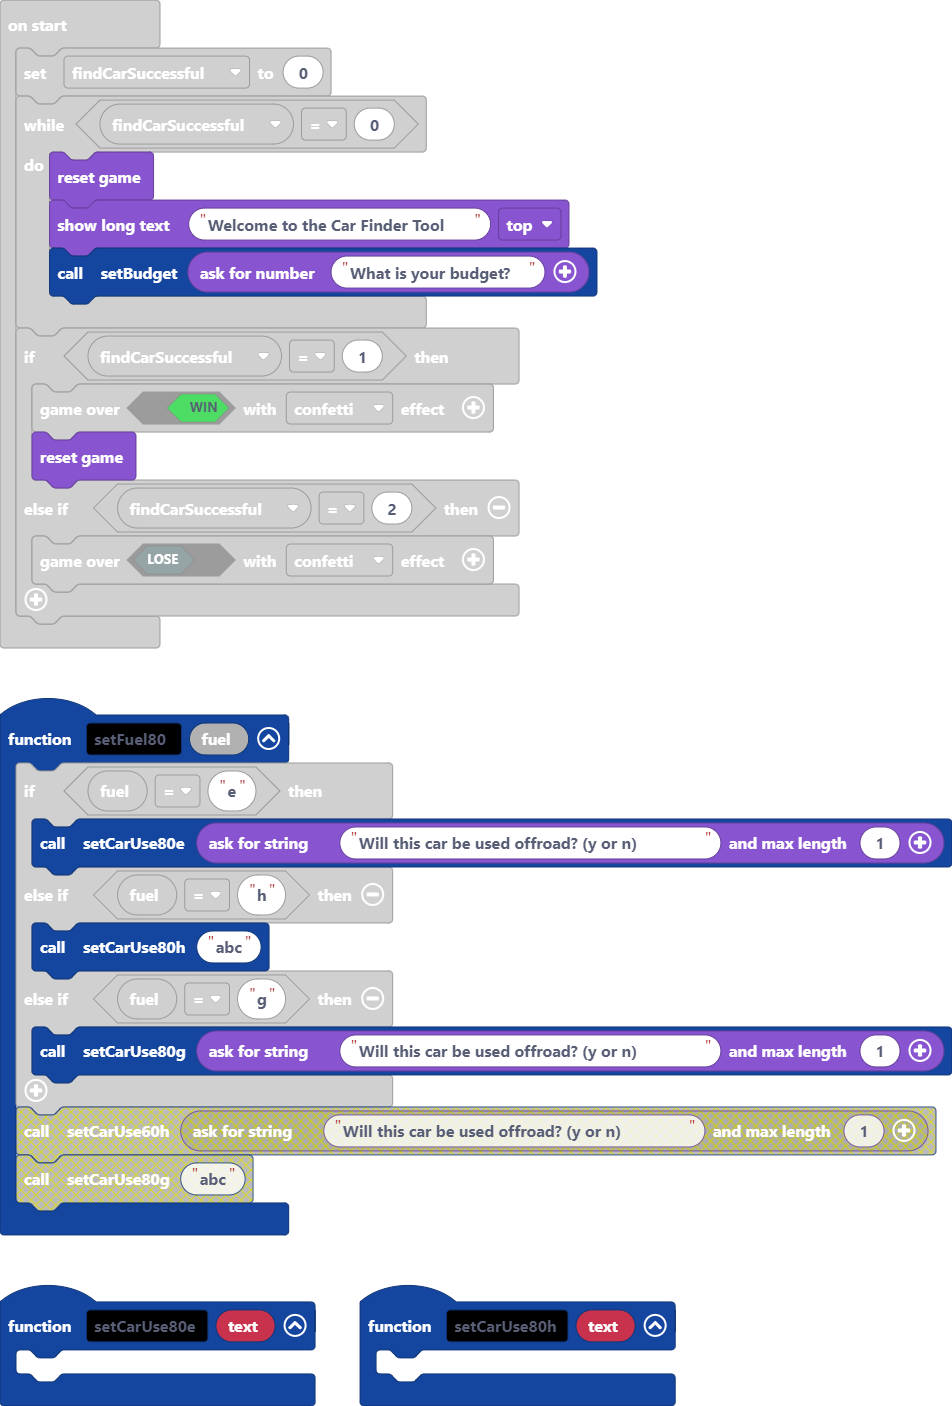
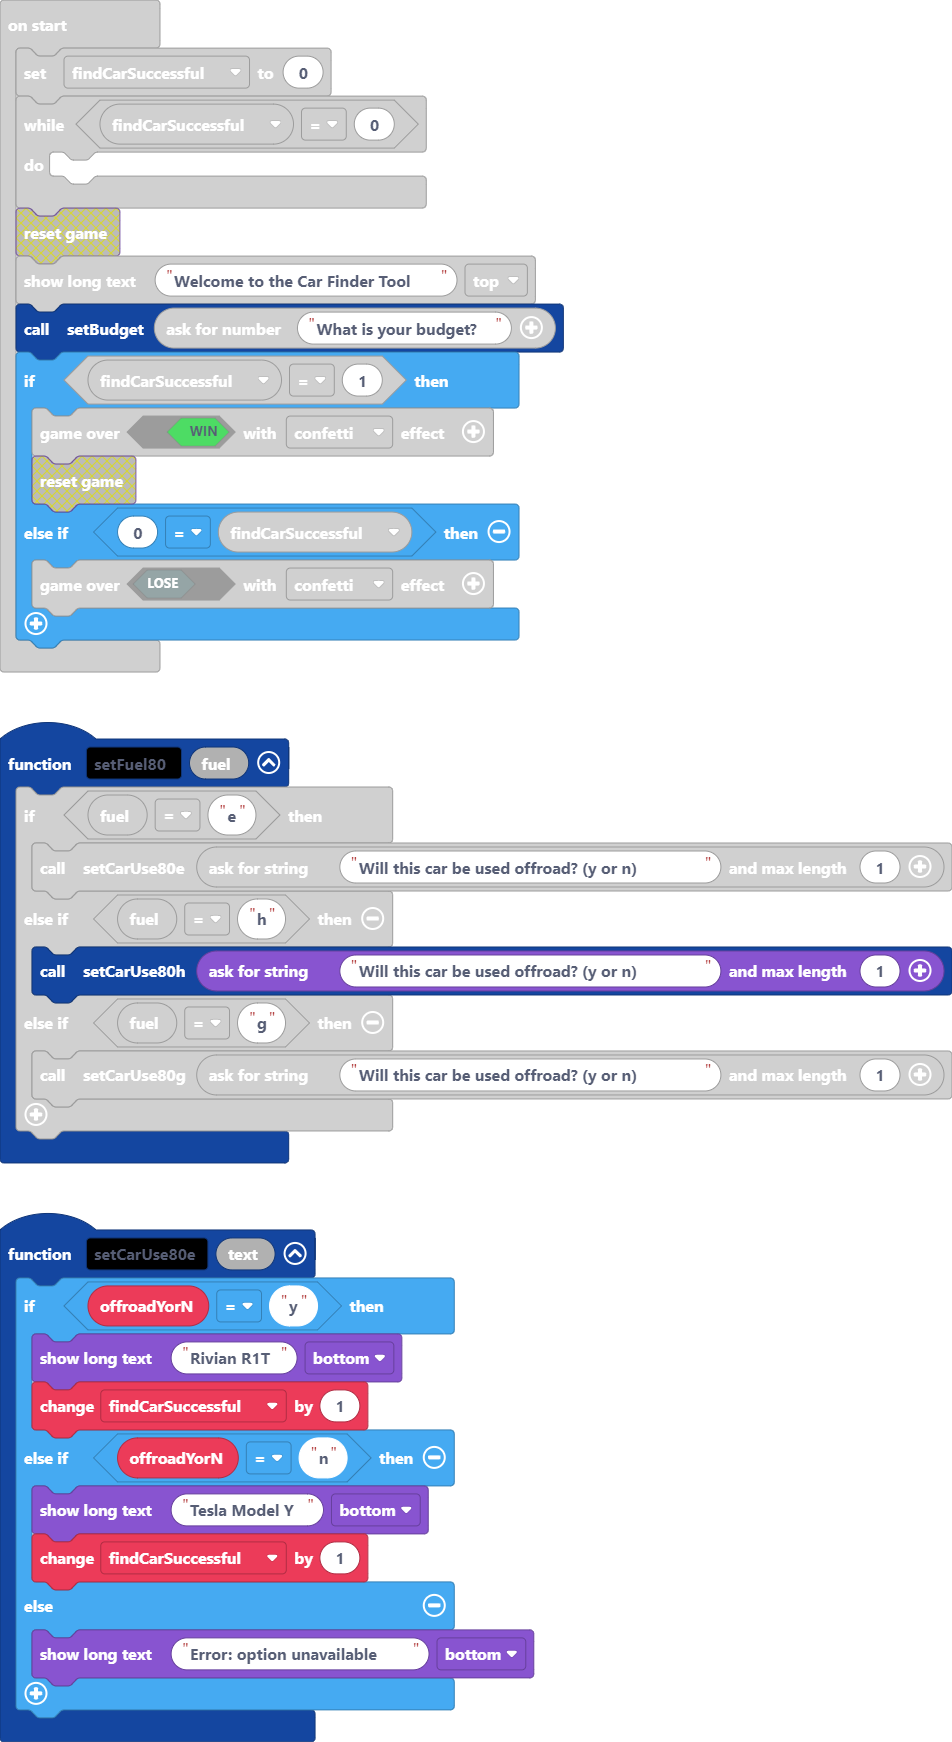
Update main.blocks, main.ts

diff --git a/main.ts b/main.ts
@@ -24,7 +24,7 @@ function setFuel80 (fuel: string) {
     if (fuel == "e") {
         setCarUse80e(game.askForString("Will this car be used offroad? (y or n)", 1))
     } else if (fuel == "h") {
-        setCarUse80h("abc")
+        setCarUse80h(game.askForString("Will this car be used offroad? (y or n)", 1))
     } else if (fuel == "g") {
         setCarUse80g(game.askForString("Will this car be used offroad? (y or n)", 1))
     }
@@ -80,7 +80,15 @@ function setCarUse40g (offroadYorN: string) {
     }
 }
 function setCarUse80e (text: string) {
-	
+    if (offroadYorN == "y") {
+        game.showLongText("Rivian R1T", DialogLayout.Bottom)
+        findCarSuccessful += 1
+    } else if (offroadYorN == "n") {
+        game.showLongText("Tesla Model Y", DialogLayout.Bottom)
+        findCarSuccessful += 1
+    } else {
+        game.showLongText("Error: option unavailable", DialogLayout.Bottom)
+    }
 }
 function setFuel60 (fuel: string) {
     if (fuel == "e") {
@@ -98,13 +106,11 @@ function setCarUse80g (text: string) {
 let text_list: string[] = []
 let findCarSuccessful = 0
 while (findCarSuccessful == 0) {
-    game.reset()
     game.showLongText("Welcome to the Car Finder Tool", DialogLayout.Top)
     setBudget(game.askForNumber("What is your budget?"))
 }
 if (findCarSuccessful == 1) {
     game.over(true)
-    game.reset()
-} else if (findCarSuccessful == 2) {
+} else if (0 == findCarSuccessful) {
     game.over(false)
 }
